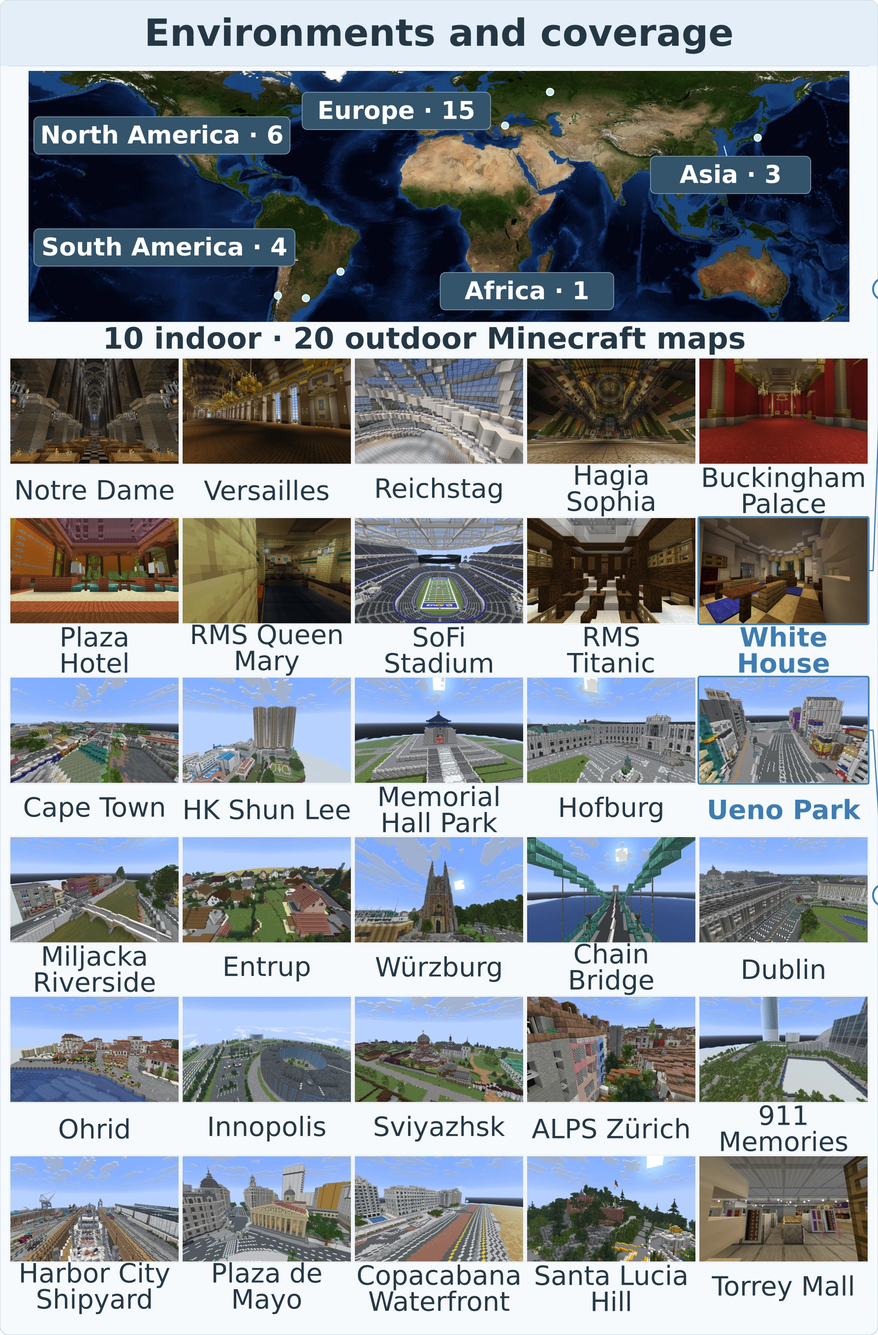
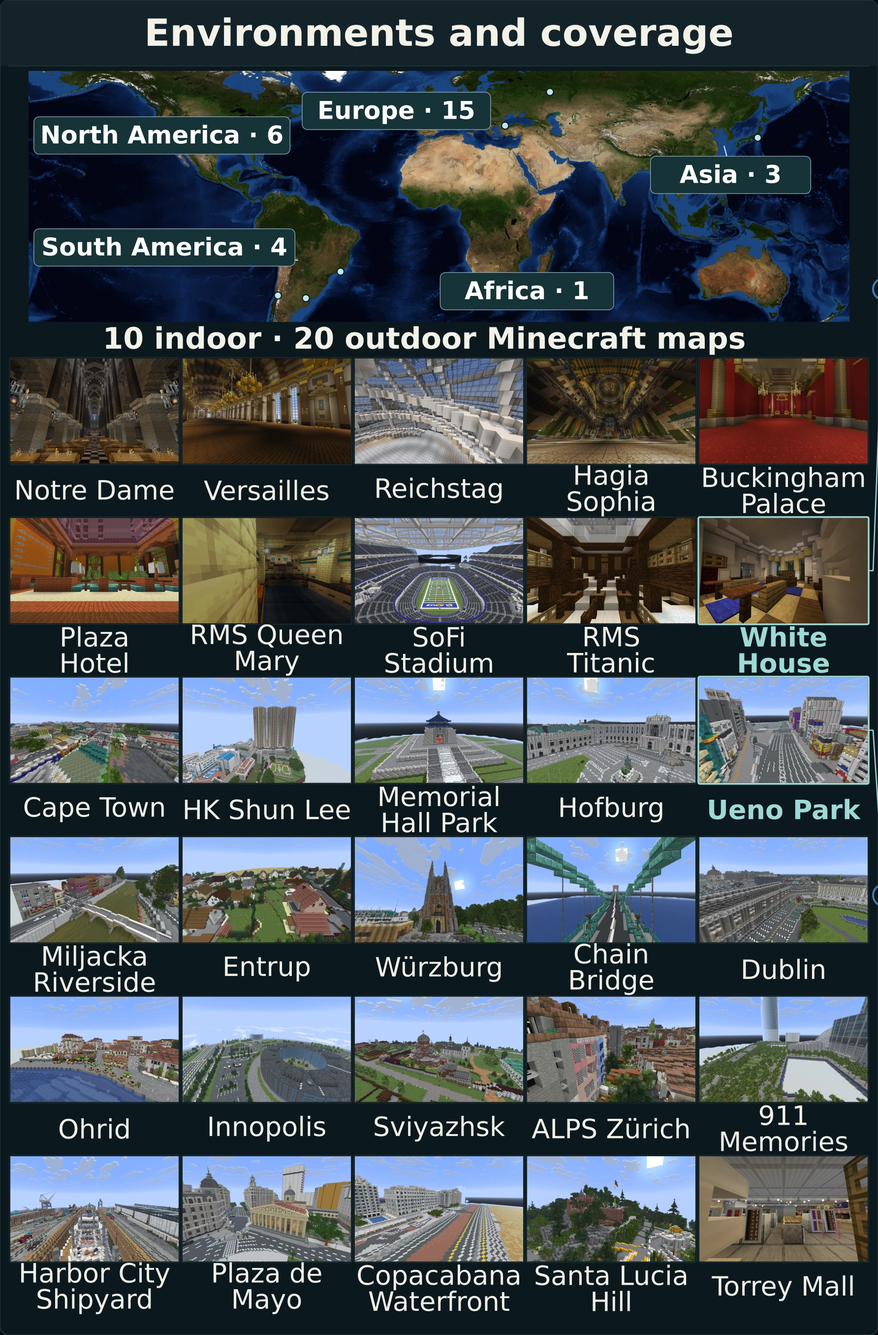
Integrate task overview with dark theme and show Entrup in framework

diff --git a/app.js b/app.js
@@ -467,8 +467,8 @@
 
 (() => {
   const host=document.querySelector('#framework-diagram');
-  const example=window.MINE_ODYSSEY.journeys.examples.find(t=>t.id==='copacabana-waterfront-001');
-  const views={game:window.MINE_ODYSSEY.maps.find(m=>m.id===example.map).image,map:example.map_image};
+  const example=window.MINE_ODYSSEY.fullTrajectories.cases.find(t=>t.id==='entrup-006');
+  const views={game:window.MINE_ODYSSEY.maps.find(m=>m.id===example.map_id).image,map:example.map_image};
   const box=(x,y,w,h,fill,stroke)=>`<rect x="${x}" y="${y}" width="${w}" height="${h}" rx="12" fill="${fill}" stroke="${stroke}" stroke-width="1.5"/>`;
   const text=(x,y,value,size=14,color='#294e3a',extra='')=>`<text x="${x}" y="${y}" font-size="${size}" fill="${color}" ${extra}>${value}</text>`;
   function avatar(){
@@ -513,7 +513,7 @@
       content=text(0,30,'Minecraft client',30)+
         `<rect class="client-window" x="0" y="42" width="${w}" height="${imageHeight+57}" rx="8" fill="#fcfcf6" stroke="#aaba9b" stroke-width="1.5"/>`+
         tab('game','Game view',0)+tab('map','World map',1)+
-        `<rect x="8" y="91" width="${w-16}" height="${imageHeight}" fill="#e2e8da"/><image class="client-observation" href="${views.game}" x="8" y="91" width="${w-16}" height="${imageHeight}" preserveAspectRatio="xMidYMid meet" role="img" aria-label="In-game presentation view of Copacabana"/><rect class="client-capture-outline" x="8" y="91" width="${w-16}" height="${imageHeight}" fill="none" stroke="#e3bd6a" stroke-width="4" pointer-events="none"/>${text(8,imageHeight+125,'Copacabana Waterfront',18,'#687b5b')}`;
+        `<rect x="8" y="91" width="${w-16}" height="${imageHeight}" fill="#e2e8da"/><image class="client-observation" href="${views.game}" x="8" y="91" width="${w-16}" height="${imageHeight}" preserveAspectRatio="xMidYMid meet" role="img" aria-label="In-game presentation view of Entrup"/><rect class="client-capture-outline" x="8" y="91" width="${w-16}" height="${imageHeight}" fill="none" stroke="#e3bd6a" stroke-width="4" pointer-events="none"/>${text(8,imageHeight+125,'Entrup',18,'#687b5b')}`;
     }
     if(type==='verifier'){
       content=box(0,0,w,h,'#f0ecd8','#b0a56c')+
@@ -545,7 +545,7 @@
     const nodes=mobile?node('agent',45,44,270,230,true)+node('bash',45,330,270,285,true)+node('world',45,675,270,299,true)+node('verifier',45,1085,270,157,true):
       node('agent',20,150,250,230)+node('bash',345,150,315,255)+node('world',750,105,400,382)+node('verifier',445,535,465,125);
     const palette={'#294e3a':'#f3f1e9','#687b5b':'#b5c5c4','#789165':'#79b9b5','#fcfcf6':'#14242a','#fcfcf4':'#172c31','#c2ceb0':'#426166','#9daf84':'#8aabaa','#d8e2c9':'#203a3d','#b8c6ac':'#426166','#e0e9cf':'#153337','#243e34':'#081217','#4d6858':'#324f54','#f0ecd8':'#232b29','#b0a56c':'#6e7053','#fdfcf1':'#243938','#b3aa7c':'#85916e','#9a905d':'#bdba83','#638357':'#a4d3b0','#c0c6a5':'#8fa794','#756c40':'#d6c18e','#527345':'#a0c9ab','#82723e':'#d6c18e','#a79758':'#b4a86e','#aaba9b':'#426166','#e2e8da':'#14242a'};
-    const svg=`<svg class="framework-${id}" viewBox="0 0 ${w} ${h}" role="group" aria-labelledby="fw-${id}-title fw-${id}-desc"><title id="fw-${id}-title">Agent interaction and independent verification</title><desc id="fw-${id}-desc">The agent receives the task, screenshots and execution feedback. Bash runs mcapi through AgentBridge or xdo keyboard and mouse controls. The client shows an in-game presentation view or native map of Copacabana. A separate verifier samples player positions at one hertz throughout execution and checks ordered arrivals and the completion claim. Moving dots illustrate information flow.</desc><defs><marker id="fw-${id}-arrow" viewBox="0 0 10 10" refX="9" refY="5" markerWidth="6" markerHeight="6" orient="auto-start-reverse"><path d="M0 1 9 5 0 9" fill="none" stroke="#789165" stroke-width="1.6"/></marker></defs>${paths}${nodes}<circle class="flow-packet" r="6" fill="#9ed9d6" stroke="#060e12" stroke-width="2" pointer-events="none"/><circle class="position-packet" r="4" fill="#d6c18e" pointer-events="none"/></svg>`;
+    const svg=`<svg class="framework-${id}" viewBox="0 0 ${w} ${h}" role="group" aria-labelledby="fw-${id}-title fw-${id}-desc"><title id="fw-${id}-title">Agent interaction and independent verification</title><desc id="fw-${id}-desc">The agent receives the task, screenshots and execution feedback. Bash runs mcapi through AgentBridge or xdo keyboard and mouse controls. The client shows an in-game presentation view or native map of Entrup. A separate verifier samples player positions at one hertz throughout execution and checks ordered arrivals and the completion claim. Moving dots illustrate information flow.</desc><defs><marker id="fw-${id}-arrow" viewBox="0 0 10 10" refX="9" refY="5" markerWidth="6" markerHeight="6" orient="auto-start-reverse"><path d="M0 1 9 5 0 9" fill="none" stroke="#789165" stroke-width="1.6"/></marker></defs>${paths}${nodes}<circle class="flow-packet" r="6" fill="#9ed9d6" stroke="#060e12" stroke-width="2" pointer-events="none"/><circle class="position-packet" r="4" fill="#d6c18e" pointer-events="none"/></svg>`;
     return svg.replace(/#[0-9a-f]{6}\b/g,color=>palette[color]||color);
   }
   host.innerHTML=render(false)+render(true);
@@ -553,7 +553,7 @@
     host.querySelectorAll('[data-client-view]').forEach(b=>b.setAttribute('aria-pressed',String(b.dataset.clientView===view)));
     host.querySelectorAll('.client-observation').forEach(img=>{
       img.setAttribute('href',views[view]);
-      img.setAttribute('aria-label',view==='game'?'In-game presentation view of Copacabana':'Native map of Copacabana');
+      img.setAttribute('aria-label',view==='game'?'In-game presentation view of Entrup':'Native map of Entrup');
     });
   }
   host.addEventListener('click',e=>{const b=e.target.closest('[data-client-view]');if(b)selectView(b.dataset.clientView);});

diff --git a/index.html b/index.html
@@ -8,10 +8,10 @@
   <link rel="canonical" href="https://mine-odyssey.github.io/">
   <meta name="theme-color" content="#060e12">
   <title data-paper="title">Mine Odyssey: Benchmarking Spatial Agentic Intelligence in the Wild</title>
-  <link rel="icon" href="favicon.svg?v=dark-framework-20261008" type="image/svg+xml">
-  <link rel="stylesheet" href="styles.css?v=dark-framework-20261008">
-  <script src="data/benchmark.js?v=dark-framework-20261008" defer></script>
-  <script src="app.js?v=dark-framework-20261008" defer></script>
+  <link rel="icon" href="favicon.svg?v=task-figure-20261008" type="image/svg+xml">
+  <link rel="stylesheet" href="styles.css?v=task-figure-20261008">
+  <script src="data/benchmark.js?v=task-figure-20261008" defer></script>
+  <script src="app.js?v=task-figure-20261008" defer></script>
 </head>
 <body class="research-layout refined-layout paper-layout dark-layout">
   <a class="skip-link" href="#main">Skip to content</a>
@@ -41,11 +41,11 @@
     <section class="section shell opening task-format-section" id="task-format" aria-labelledby="task-format-title">
         <div class="section-heading"><div><p class="eyebrow section-number" aria-hidden="true">02</p><h2 id="task-format-title">Task format</h2></div></div>
       <figure class="paper-overview" aria-labelledby="overview-caption">
-        <a class="paper-overview-image" href="assets/overview-figure-1-full.webp" target="_blank" rel="noopener" aria-label="Enlarge Figure 1: environments and task construction">
-          <picture><source media="(max-width: 760px)" srcset="assets/overview-figure-1-environments.webp" width="1784" height="2711"><img src="assets/overview-figure-1-full.webp" width="3868" height="2711" loading="lazy" decoding="async" alt="Figure 1: thirty Minecraft reconstructions across five continents, with White House and Ueno Park examples connecting reference locations to ordered task waypoints."></picture>
-          <img class="paper-overview-mobile" src="assets/overview-figure-1-tasks.webp" width="2052" height="2711" loading="lazy" decoding="async" alt="Indoor White House and outdoor Ueno Park task construction. Original instructions accompany numbered waypoints in Minecraft and their real-world references.">
+        <a class="paper-overview-image" href="assets/overview-figure-1-full.webp?v=dark-20261008" target="_blank" rel="noopener" aria-label="Enlarge Figure 1: environments and task construction">
+          <picture><source media="(max-width: 760px)" srcset="assets/overview-figure-1-environments.webp?v=dark-20261008" width="1784" height="2711"><img src="assets/overview-figure-1-full.webp?v=dark-20261008" width="3868" height="2711" loading="lazy" decoding="async" alt="Figure 1: thirty Minecraft reconstructions across five continents, with White House and Ueno Park examples connecting reference locations to ordered task waypoints."></picture>
+          <img class="paper-overview-mobile" src="assets/overview-figure-1-tasks.webp?v=dark-20261008" width="2052" height="2711" loading="lazy" decoding="async" alt="Indoor White House and outdoor Ueno Park task construction. Original instructions accompany numbered waypoints in Minecraft and their real-world references.">
         </a>
-        <figcaption id="overview-caption"><strong>Environments and task construction.</strong><a href="assets/overview-figure-1-full.webp" target="_blank" rel="noopener">View full size <span aria-hidden="true">↗</span></a><p>S marks the start; numbered markers and dashed lines show visit order.</p></figcaption>
+        <figcaption id="overview-caption"><strong>Environments and task construction.</strong><a href="assets/overview-figure-1-full.webp?v=dark-20261008" target="_blank" rel="noopener">View full size <span aria-hidden="true">↗</span></a><p>S marks the start; numbered markers and dashed lines show visit order.</p></figcaption>
       </figure>
       <aside class="opening-task" aria-label="Animated task example"><div class="journey-contract"><div class="contract-heading"><p class="eyebrow">A task in Harbor City</p></div>
           <p class="contract-instruction" id="contract-instruction"></p>

diff --git a/styles.css b/styles.css
@@ -1755,3 +1755,4 @@ body.paper-layout.dark-layout{color-scheme:dark;--paper:#060e12;--ink:#f3f1e9;--
 .paper-layout.dark-layout .heading-sequence .repeat-count{color:#d6c18e}
 .paper-layout.dark-layout .loop-iterations .current,.paper-layout.dark-layout .loop-iterations .current.complete{background:#d6c18e;color:#07191b;border-color:#d6c18e}
 .paper-layout.dark-layout .loop-iterations .complete{color:#d6c18e;border-color:#827650}
+.paper-layout.dark-layout .paper-overview-image{background:var(--paper)}
